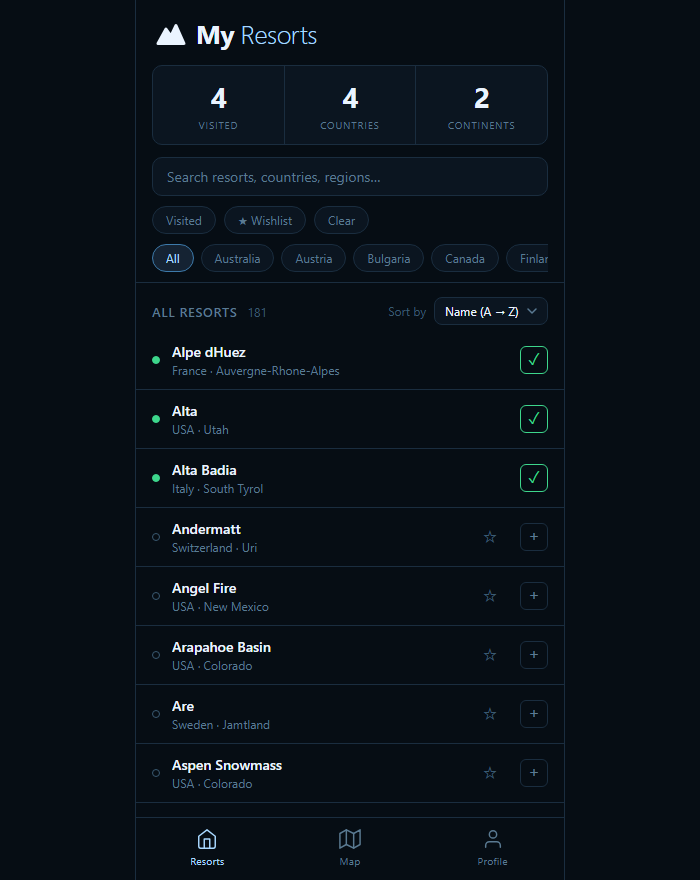
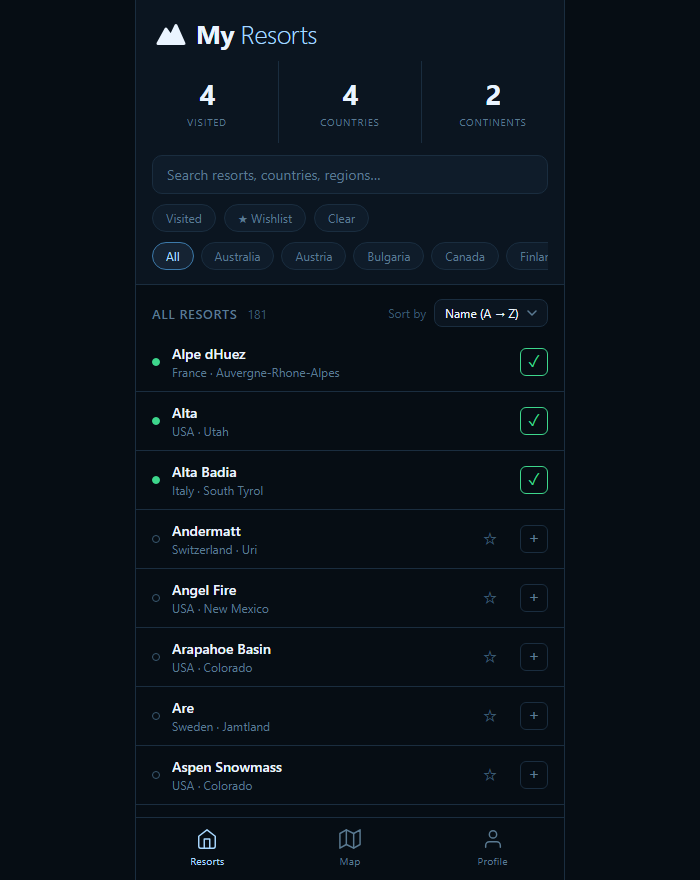
Add light mode toggle and separator lines around stats

diff --git a/index.html b/index.html
@@ -4,6 +4,9 @@
 <meta charset="UTF-8">
 <meta name="viewport" content="width=device-width, initial-scale=1.0">
 <title>Powder</title>
+<script>
+  try { if (localStorage.getItem('powder.theme') === 'light') document.documentElement.dataset.theme = 'light'; } catch (_) {}
+</script>
 <style>
   *, *::before, *::after { box-sizing: border-box; margin: 0; padding: 0; }
 
@@ -22,6 +25,28 @@
     --green:   #3dd68c;
     --red:     #e8524a;
     --r:       10px;
+  }
+
+  html[data-theme="light"] {
+    --bg:      #ffffff;
+    --s1:      #eef3f8;
+    --s2:      #ffffff;
+    --s3:      #dbe8f5;
+    --rim:     #d4dee8;
+    --ice:     #1f6fb2;
+    --ice-dim: #6a9fcc;
+    --snow:    #0d1b2a;
+    --muted:   #9aaebf;
+    --soft:    #5c7185;
+    --gold:    #d49b00;
+    --green:   #1fa968;
+    --red:     #d0433b;
+  }
+  html { color-scheme: dark; }
+  html[data-theme="light"] { color-scheme: light; }
+
+  body, .page-header, #stats-strip, #controls, #tabbar, .chip, #search {
+    transition: background-color 0.2s, border-color 0.2s, color 0.2s;
   }
 
   html, body {
@@ -113,12 +138,26 @@
   }
   .page-title span { color: var(--ice); font-weight: 300; }
   .page-header { display: flex; align-items: center; gap: 10px; }
+  .theme-btn {
+    margin-left: auto;
+    width: 32px; height: 32px; flex-shrink: 0;
+    display: flex; align-items: center; justify-content: center;
+    background: var(--s2); border: 1px solid var(--rim); border-radius: 50%;
+    color: var(--soft); cursor: pointer; transition: all 0.12s;
+  }
+  .theme-btn:hover { color: var(--ice); border-color: var(--ice-dim); }
+  .theme-btn svg { width: 16px; height: 16px; fill: none; stroke: currentColor; stroke-width: 1.8; stroke-linecap: round; stroke-linejoin: round; }
+  .theme-btn .icon-moon { display: none; }
+  html[data-theme="light"] .theme-btn .icon-sun { display: none; }
+  html[data-theme="light"] .theme-btn .icon-moon { display: block; }
   .logo { width: 30px; height: 22px; flex-shrink: 0; fill: var(--snow); stroke: var(--snow); stroke-width: 3; stroke-linejoin: round; }
 
   /* ── Stats strip ── */
   #stats-strip {
     display: flex;
     background: var(--s1);
+    border-top: 1px solid var(--rim);
+    border-bottom: 1px solid var(--rim);
   }
   .stat-cell {
     flex: 1;
@@ -389,6 +428,7 @@
       <div class="page-header">
         <svg class="logo" viewBox="0 0 30 22" aria-hidden="true"><path d="M2 20.5 L10 6 L15 13 L20 2.5 L28 20.5 Z"/></svg>
         <div class="page-title">My <span>Resorts</span></div>
+        <button class="theme-btn" aria-label="Toggle light mode" title="Toggle light mode"><svg class="icon-sun" viewBox="0 0 24 24"><circle cx="12" cy="12" r="4"/><path d="M12 2v2M12 20v2M4.9 4.9l1.4 1.4M17.7 17.7l1.4 1.4M2 12h2M20 12h2M4.9 19.1l1.4-1.4M17.7 6.3l1.4-1.4"/></svg><svg class="icon-moon" viewBox="0 0 24 24"><path d="M21 12.8A9 9 0 1 1 11.2 3a7 7 0 0 0 9.8 9.8z"/></svg></button>
       </div>
       <div id="stats-strip">
         <div class="stat-cell"><div class="stat-num" id="stat-visited">0</div><div class="stat-label">Visited</div></div>
@@ -419,6 +459,7 @@
       <div class="page-header">
         <svg class="logo" viewBox="0 0 30 22" aria-hidden="true"><path d="M2 20.5 L10 6 L15 13 L20 2.5 L28 20.5 Z"/></svg>
         <div class="page-title">World <span>Map</span></div>
+        <button class="theme-btn" aria-label="Toggle light mode" title="Toggle light mode"><svg class="icon-sun" viewBox="0 0 24 24"><circle cx="12" cy="12" r="4"/><path d="M12 2v2M12 20v2M4.9 4.9l1.4 1.4M17.7 17.7l1.4 1.4M2 12h2M20 12h2M4.9 19.1l1.4-1.4M17.7 6.3l1.4-1.4"/></svg><svg class="icon-moon" viewBox="0 0 24 24"><path d="M21 12.8A9 9 0 1 1 11.2 3a7 7 0 0 0 9.8 9.8z"/></svg></button>
       </div>
       <div class="section-header">By Continent</div>
       <div id="continent-list"></div>
@@ -431,6 +472,7 @@
       <div class="page-header">
         <svg class="logo" viewBox="0 0 30 22" aria-hidden="true"><path d="M2 20.5 L10 6 L15 13 L20 2.5 L28 20.5 Z"/></svg>
         <div class="page-title">My <span>Profile</span></div>
+        <button class="theme-btn" aria-label="Toggle light mode" title="Toggle light mode"><svg class="icon-sun" viewBox="0 0 24 24"><circle cx="12" cy="12" r="4"/><path d="M12 2v2M12 20v2M4.9 4.9l1.4 1.4M17.7 17.7l1.4 1.4M2 12h2M20 12h2M4.9 19.1l1.4-1.4M17.7 6.3l1.4-1.4"/></svg><svg class="icon-moon" viewBox="0 0 24 24"><path d="M21 12.8A9 9 0 1 1 11.2 3a7 7 0 0 0 9.8 9.8z"/></svg></button>
       </div>
       <div id="profile-hero">
         <div id="profile-big-num">0</div>
@@ -540,6 +582,13 @@
   // ── Controls ──────────────────────────────────────────────────────────────
 
   function wireControls() {
+    document.querySelectorAll('.theme-btn').forEach(b => b.addEventListener('click', () => {
+      const light = document.documentElement.dataset.theme !== 'light';
+      if (light) document.documentElement.dataset.theme = 'light';
+      else delete document.documentElement.dataset.theme;
+      try { localStorage.setItem('powder.theme', light ? 'light' : 'dark'); } catch (_) {}
+    }));
+
     const homeInput = document.getElementById('home-input');
     document.getElementById('home-options').innerHTML =
       [...new Set(resorts.map(r => r.country))].sort().map(c => `<option value="${c}">`).join('');

diff --git a/README.md b/README.md
@@ -12,6 +12,7 @@ A dark-themed tracker for logging the ski resorts you've visited across 181 reso
 - **Sorting** — A→Z, Z→A, visited first, unvisited first, or by country (home country first)
 - **Home country** — set it on the Profile tab to see home vs. abroad stats; your country is pinned first in the filters and country sort
 - **Wishlist** — star resorts you want to ski, filter to just your wishlist; resorts drop off automatically once visited
+- **Light & dark mode** — toggle in the top right, remembered between visits
 - **Live stats** — resorts visited, countries, and continents, recalculated on every change
 - **Map & Profile tabs** — breakdown of progress by country and continent
 - **Persistence** — saves to a local data file on desktop, or to `localStorage` in the browser
